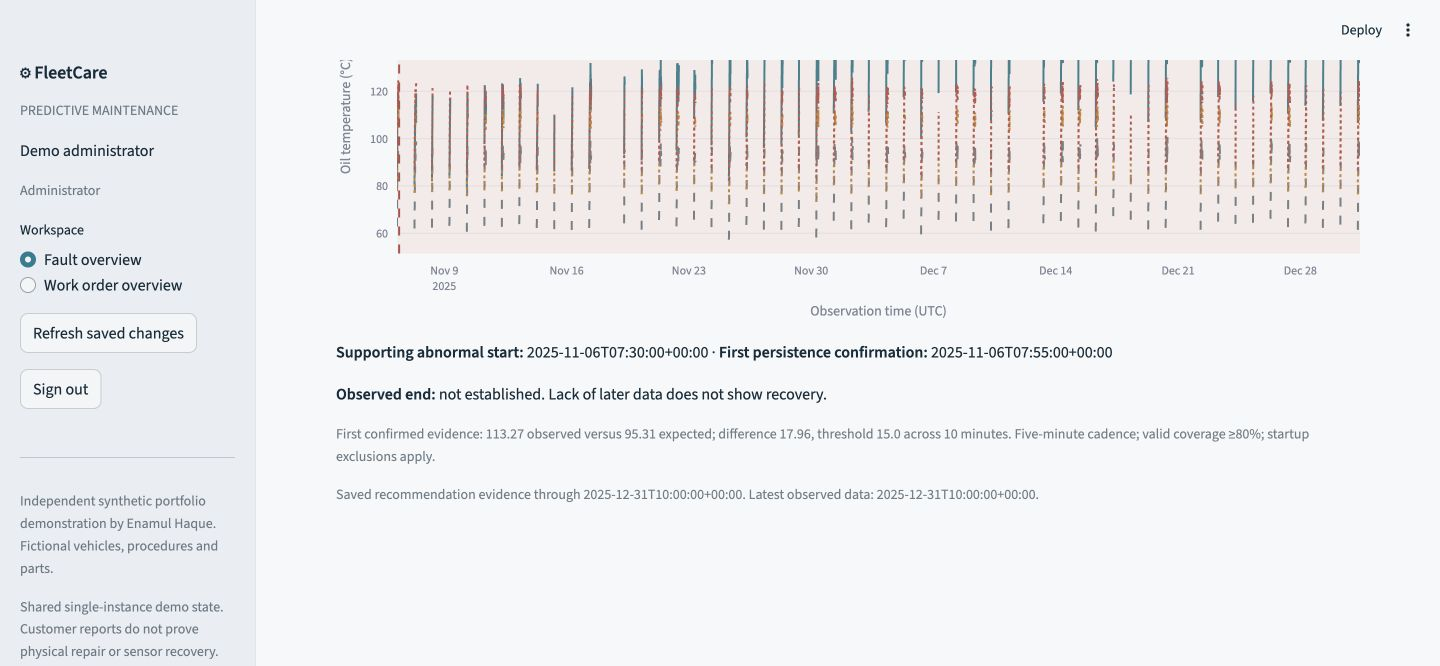
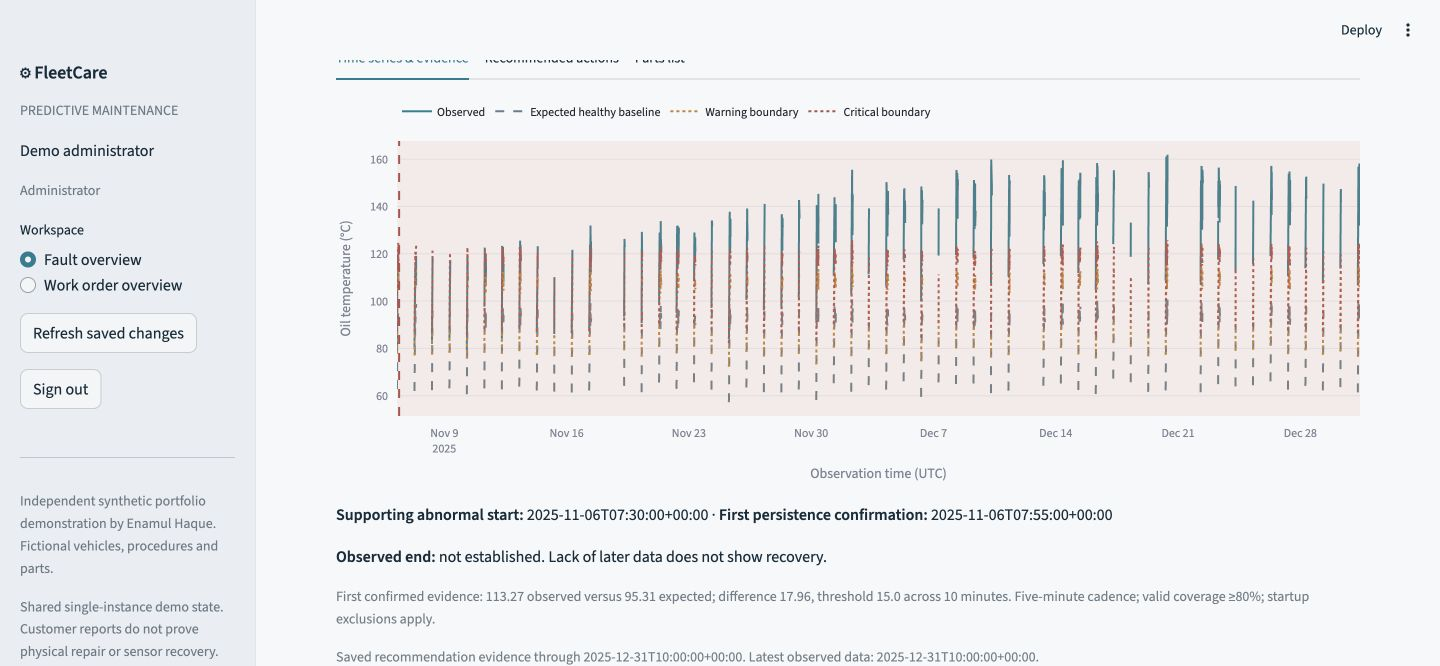
Record clean setup and final browser review evidence

diff --git a/docs/PROGRESS.md b/docs/PROGRESS.md
@@ -81,3 +81,8 @@ Completed update implementation:
   data/model cards, playbooks, testing, evidence and private-review authentication/storage instructions updated.
 - Connector and SSH independently verified as Enamul22 / ID 135505234; exact existing origin and local
   author checked. Remote main matched original HEAD before update. No Priynka account mutation or deployment.
+- Clean local clone of implementation commit 1c9b7f8 installed only requirements.lock.txt into a new
+  Python 3.12.14 environment: pip check passed; 36 tests passed in 39.31 s; lint, formatting and compile
+  checks passed. Streamlit app.py startup returned HTTP 200 / ok on a temporary local port. No private
+  file, editable install, API key or full generator was required. Final follow-up changes are screenshots
+  and this evidence record only; remote CI for the pushed final commit is inspected in the handoff.

diff --git a/docs/evidence/README.md b/docs/evidence/README.md
@@ -23,7 +23,8 @@ Screenshots are current application captures:
 |---|---|
 | overview-header.jpg | Admin heading, source coverage, filters and measured counts |
 | overview-wide.jpg | Complete counts, page control and populated selectable fleet table |
-| incident-evidence.jpg | Actual supporting sensor chart and evidence context |
+| fault-detail.jpg | Selected vehicle/customer, independent statuses and order link above tabs |
+| incident-evidence.jpg | Actual supporting sensor chart, legend/boundaries and evidence context |
 | work-order.jpg | Customer saved recommendation and proposed parts |
 | feedback.jpg | Completed technical response form |
 | admin-writeback.jpg | Exact customer response visible after admin refresh |
